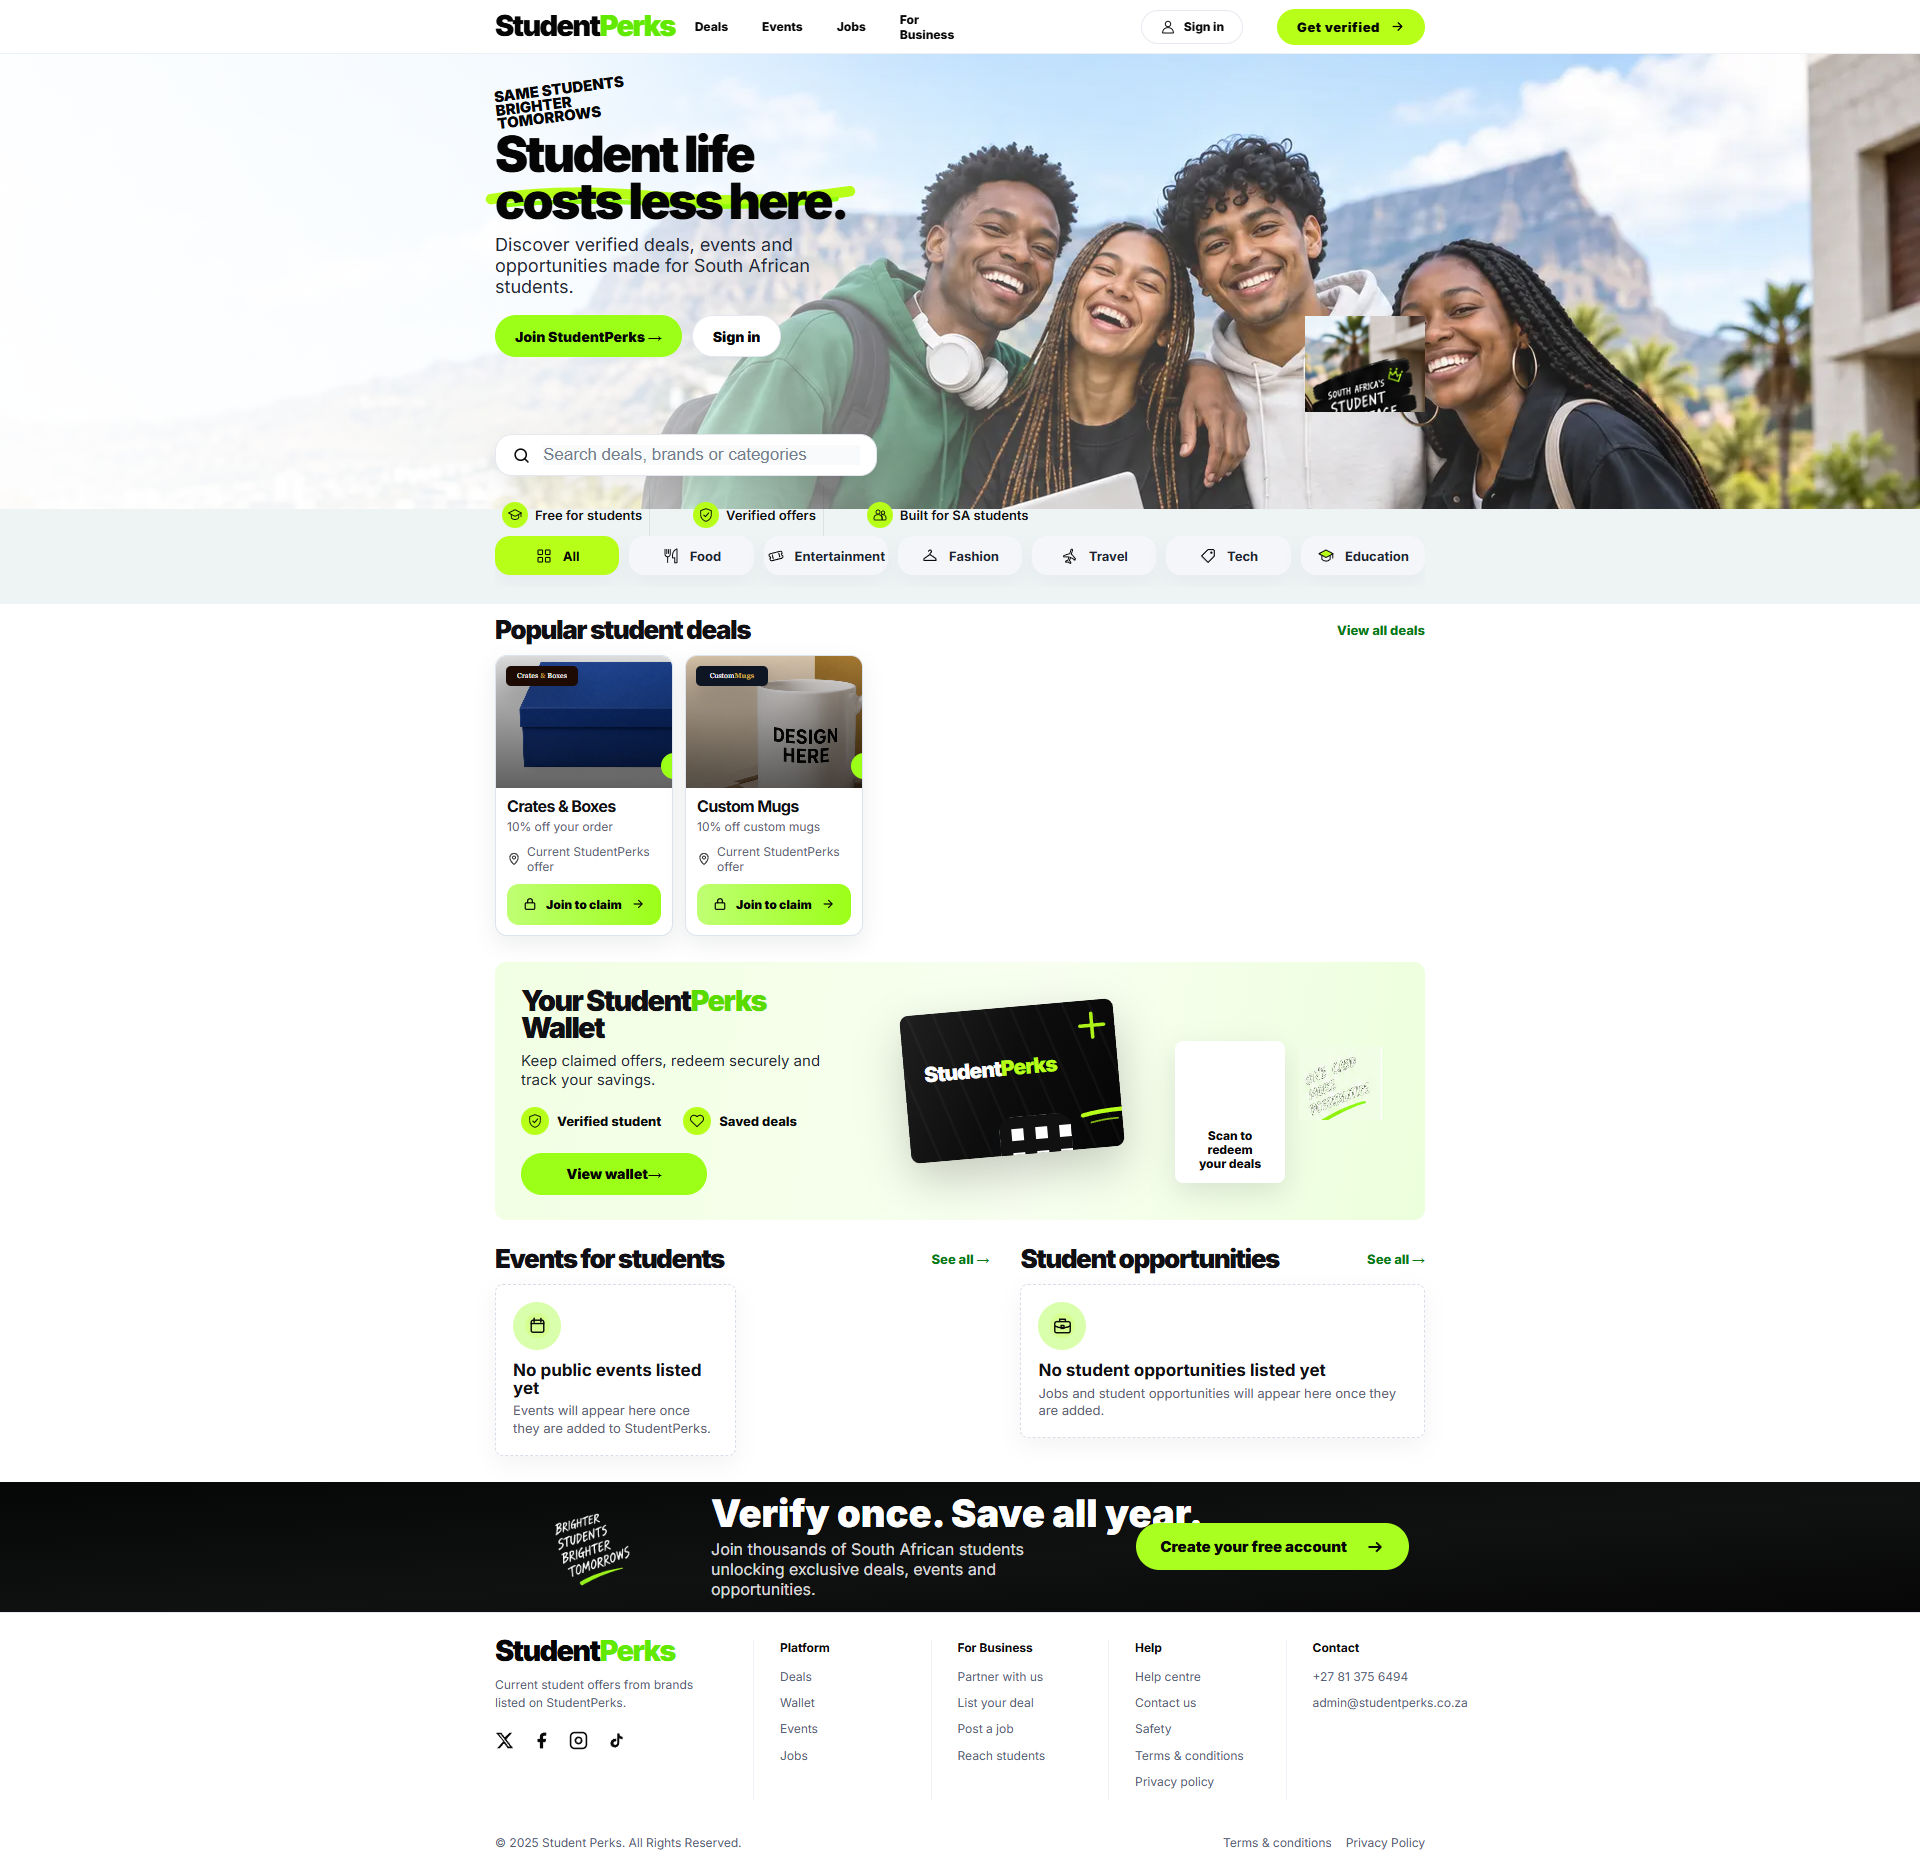
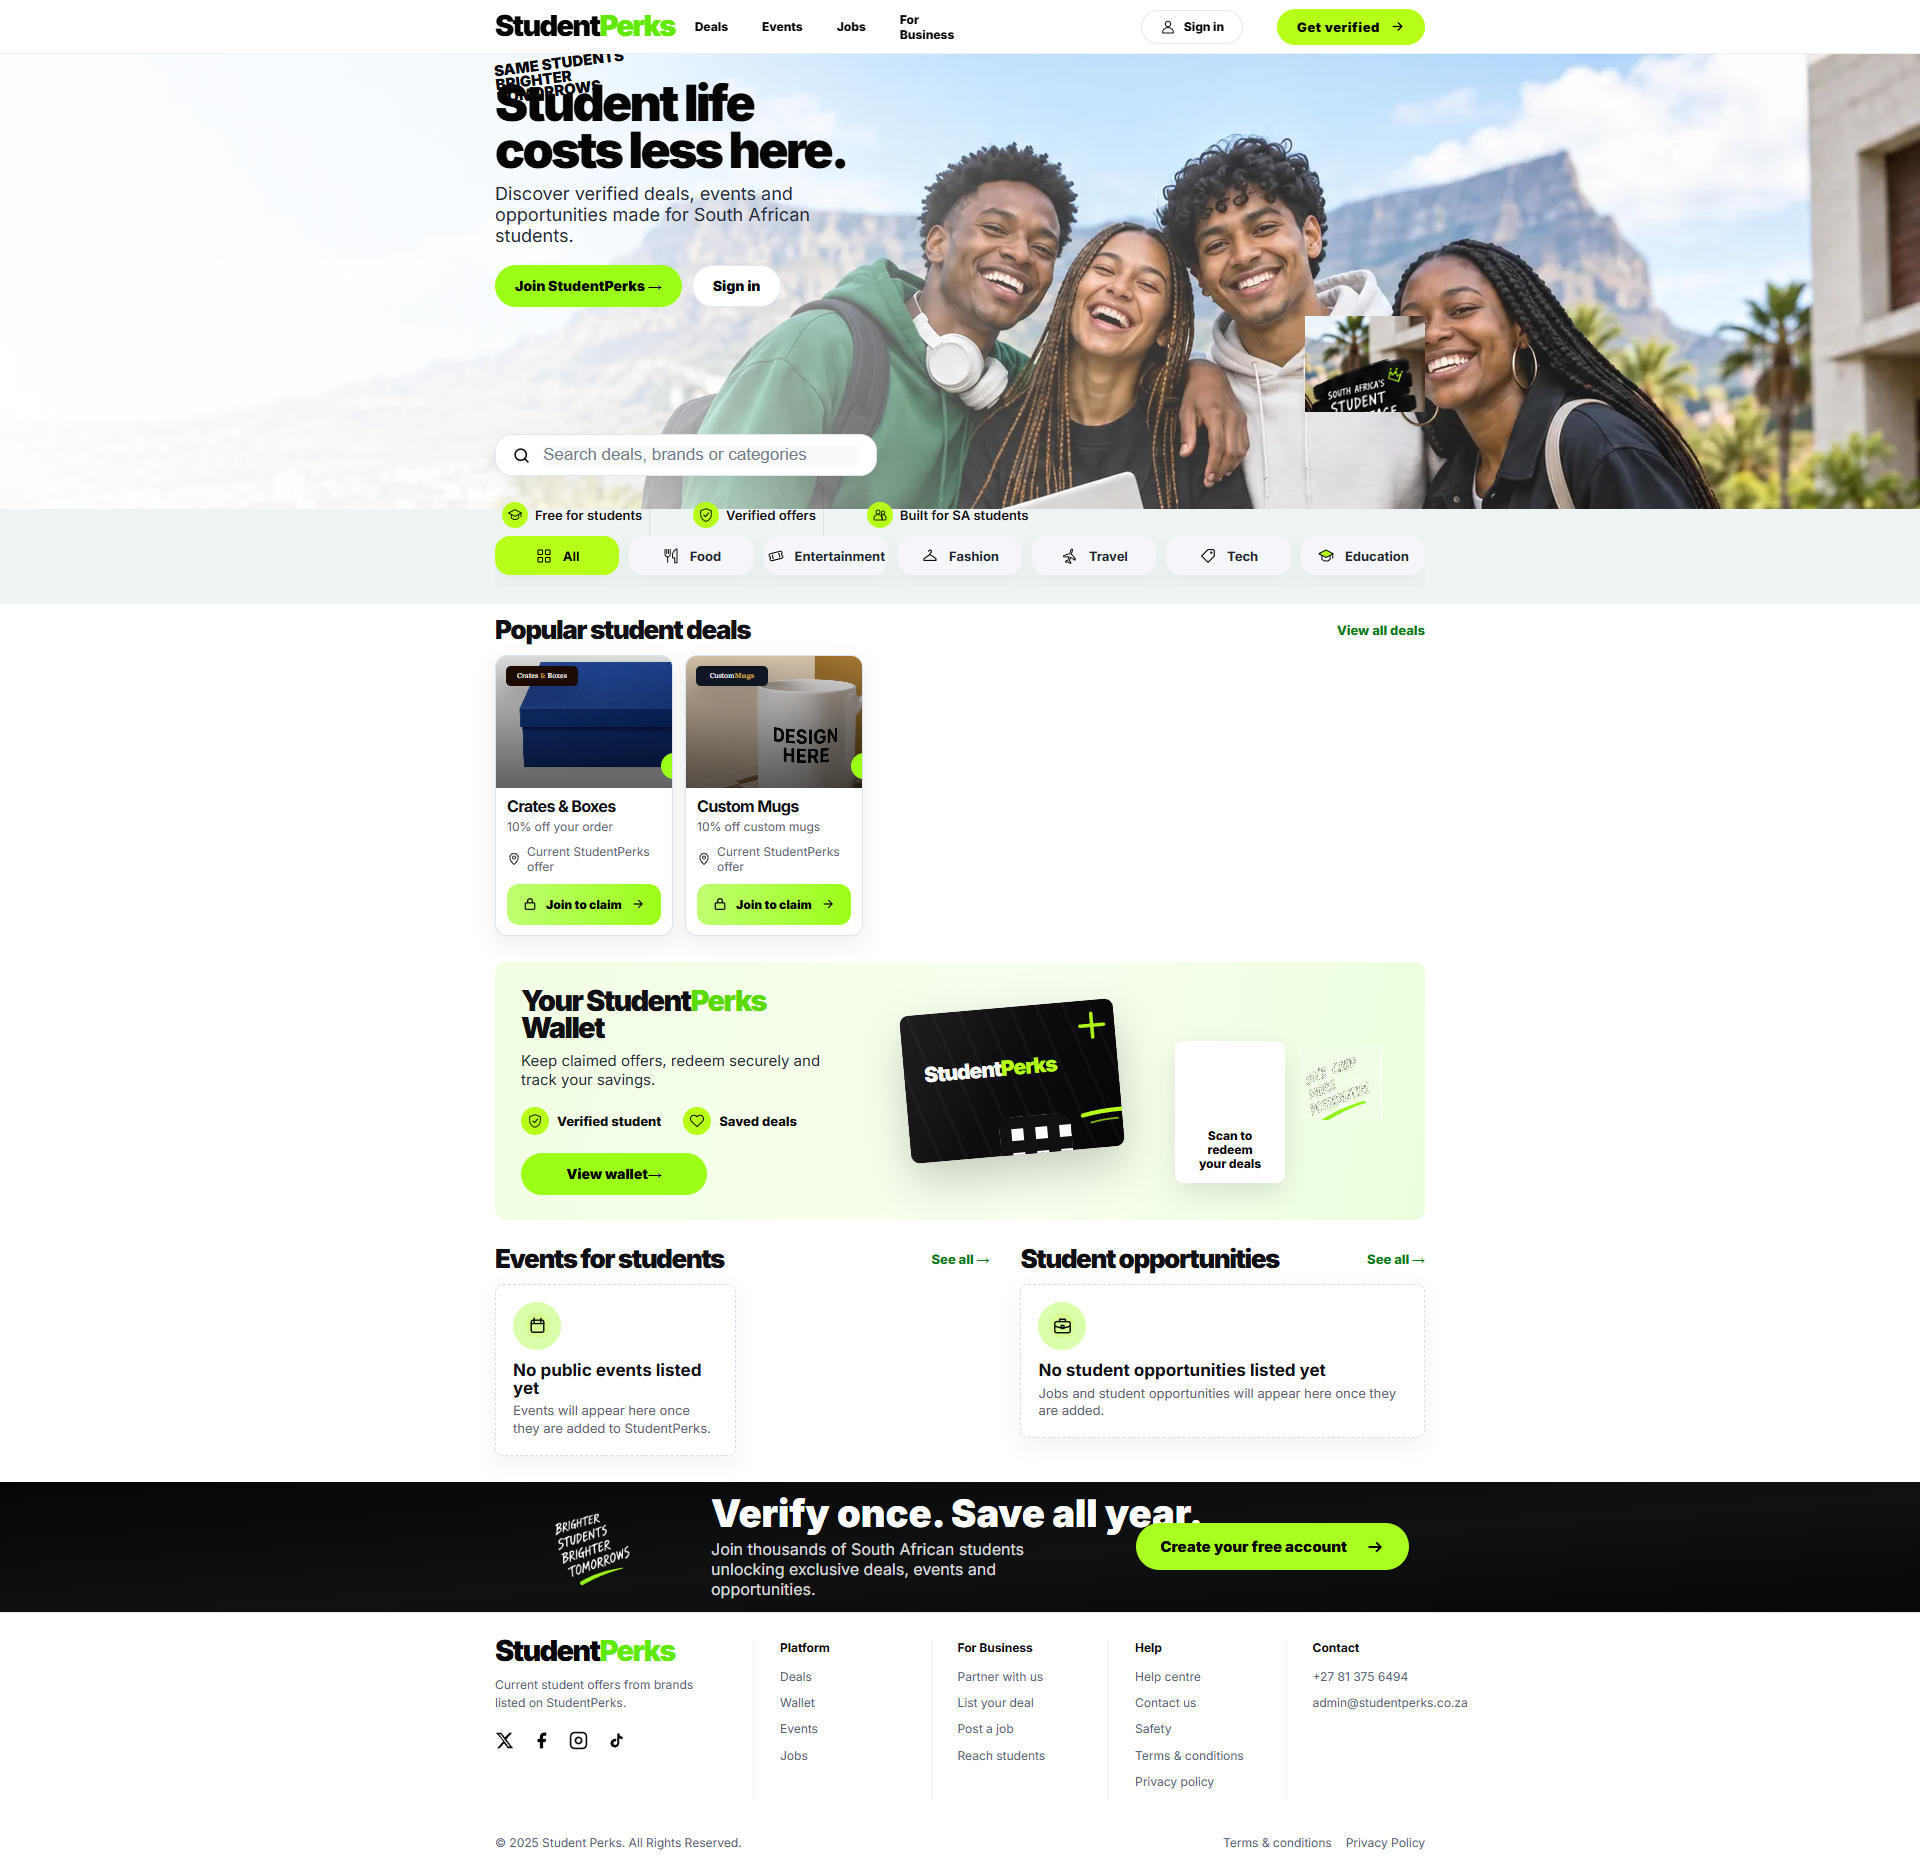
Focus homepage business CTA

Changed region(s): [[0.25, 0.0309, 0.4375, 0.2164]]

diff --git a/index.html b/index.html
@@ -2722,6 +2722,86 @@ body.public-redesign .business-photo__label {
   color: #050505;
 }
 
+body.public-redesign #business .business-promo {
+  grid-template-columns: minmax(0, 1.05fr) minmax(0, .95fr);
+  gap: 0;
+  overflow: hidden;
+  padding: 0;
+  border: 1px solid #e5e9ef;
+  border-radius: 16px;
+  background: #f7f9fb;
+  box-shadow: 0 8px 26px rgba(15,23,42,.06);
+}
+
+body.public-redesign #business .business-photo {
+  min-height: 182px;
+  height: 100%;
+  border-radius: 0;
+  background:
+    linear-gradient(90deg, rgba(5,5,5,.12), rgba(5,5,5,0)),
+    url('assets/layered/backgrounds/partner-students-clean.webp') center/cover !important;
+  padding: 0;
+}
+
+body.public-redesign #business .business-photo::after {
+  content: '';
+  position: absolute;
+  right: 18px;
+  top: 18px;
+  width: 36px;
+  height: 36px;
+  background: url('assets/brand/lime-rays.svg') center/contain no-repeat;
+}
+
+body.public-redesign #business .business-photo__brand,
+body.public-redesign #business .business-photo__label {
+  display: none !important;
+}
+
+body.public-redesign #business .business-copy {
+  display: flex;
+  flex-direction: column;
+  justify-content: center;
+  padding: 24px;
+  background:
+    radial-gradient(circle at 100% 0%, rgba(183,255,25,.18), transparent 38%),
+    #f7f9fb;
+}
+
+body.public-redesign #business .business-copy h2 {
+  max-width: 280px;
+  margin: 0 0 8px;
+  color: #050505;
+}
+
+body.public-redesign #business .business-copy p {
+  max-width: 330px;
+  margin: 0 0 18px;
+}
+
+body.public-redesign #business .business-copy .mock-btn {
+  align-self: flex-start;
+  min-height: 42px;
+  border-color: #111;
+  background: #fff;
+  color: #050505;
+}
+
+@media(max-width:700px){
+  body.public-redesign #business .business-promo {
+    grid-template-columns: 1fr;
+  }
+
+  body.public-redesign #business .business-photo {
+    min-height: 142px;
+    border-radius: 0;
+  }
+
+  body.public-redesign #business .business-copy {
+    padding: 20px;
+  }
+}
+
 .wallet-button-desktop {
   display: none;
 }
@@ -3211,7 +3291,7 @@ body.public-redesign .hero-underlined img {
       <img class="desktop-student-badge" src="assets/desktop/student-advantage-badge.png" alt="" aria-hidden="true">
       <div class="hero-handwritten">Same students<br>brighter tomorrows</div>
       <div class="mock-hero-copy">
-        <h1>Student life<br><span class="hero-underlined">costs less here.<img src="assets/desktop/decor/hero-green-underline.svg" alt="" aria-hidden="true"></span></h1>
+        <h1>Student life<br><span class="hero-underlined">costs less here.</span></h1>
         <p>Discover verified deals, events and opportunities made for South African students.</p>
         <div class="mock-actions">
           <button class="mock-btn lime" onclick="openModal('jn')">Join StudentPerks →</button>
@@ -3373,10 +3453,10 @@ body.public-redesign .hero-underlined img {
         <div class="business-photo__brand">Student<span>Perks</span></div>
         <div class="business-photo__label">Partner offers</div>
       </div>
-      <div>
+      <div class="business-copy">
         <h2>Want to reach verified students?</h2>
         <p>Partner with StudentPerks and connect with South Africa's next generation.</p>
-        <a class="mock-btn outline" style="color:#050505;border-color:#111;background:#fff" href="partner.html">Partner with us →</a>
+        <a class="mock-btn outline" href="partner.html">Partner with us →</a>
       </div>
     </div>
   </div>
